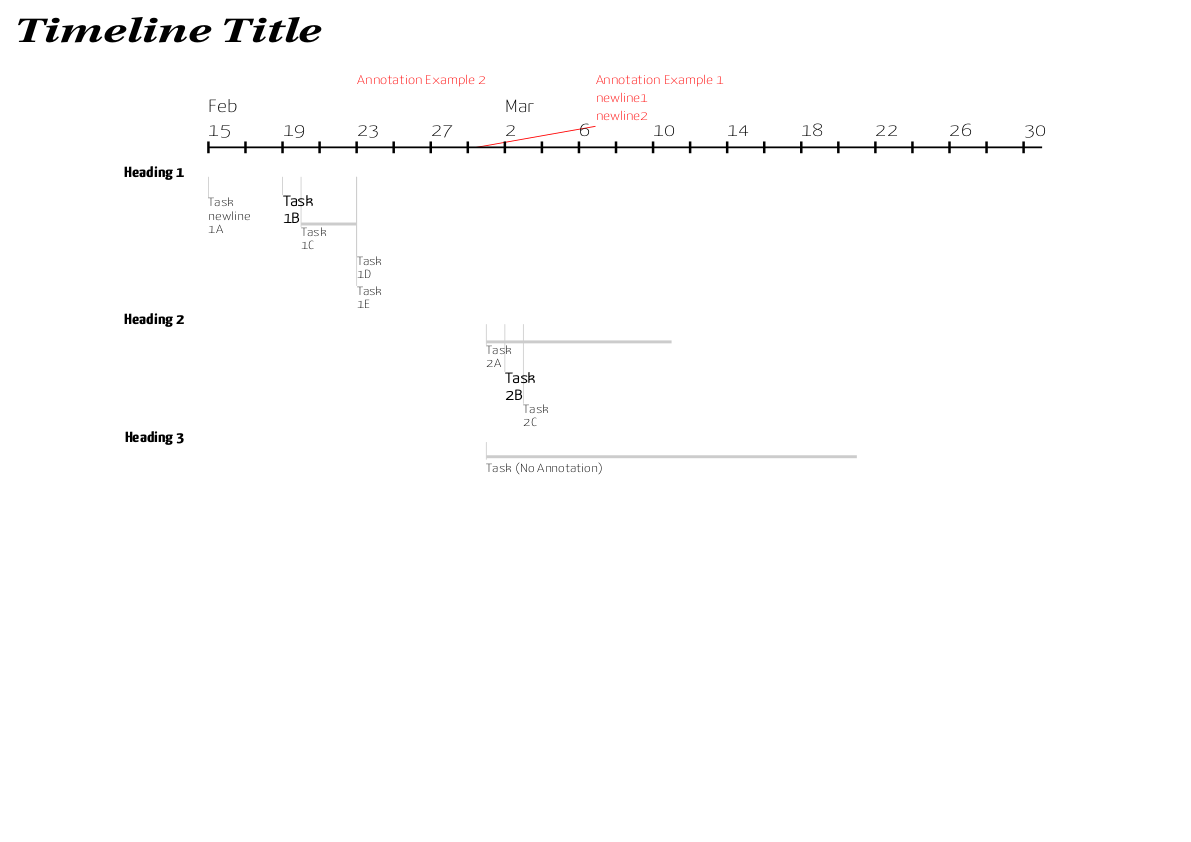
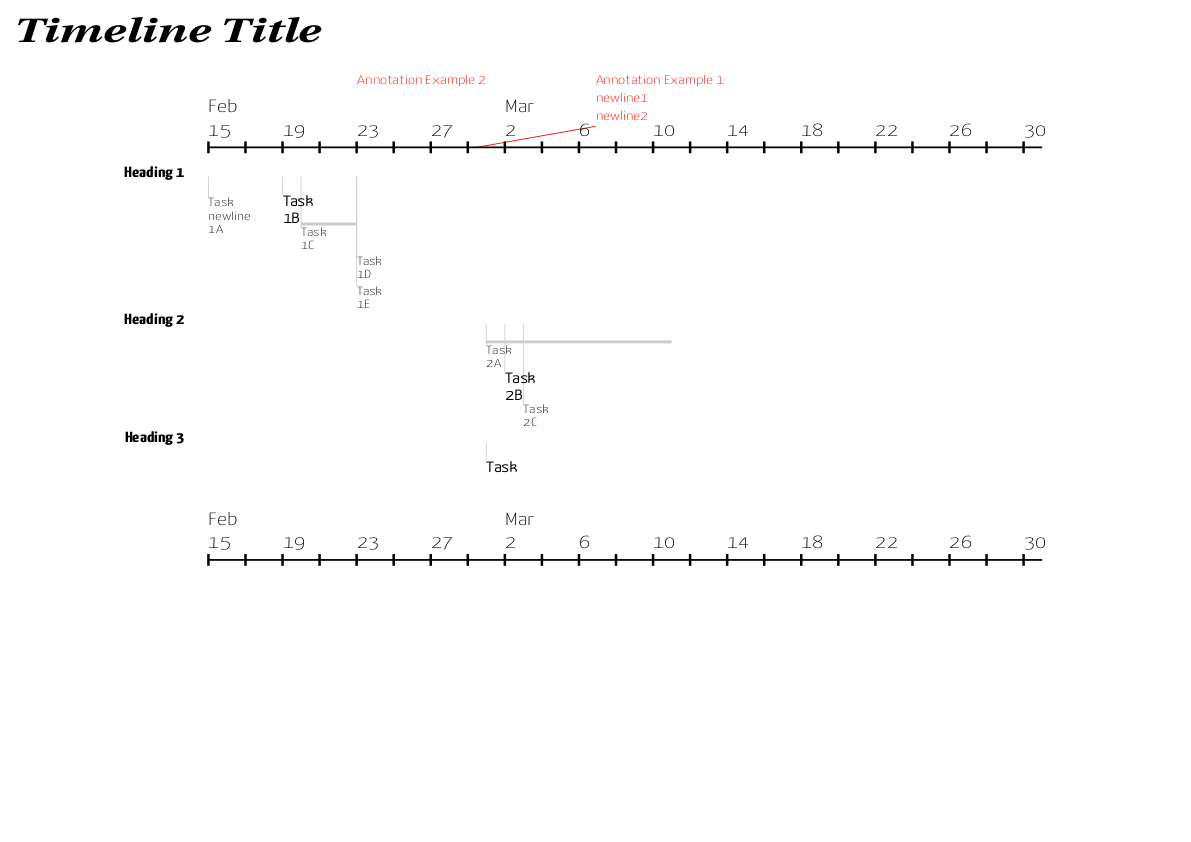
added timeline to bottom; added helper functions

Changed region(s): [[0.1864, 0.6485, 0.8699, 0.6793], [0.4039, 0.5249, 0.7145, 0.5558]]

diff --git a/timeline.py b/timeline.py
@@ -3,24 +3,6 @@ import cairo
 import calendar
 import datetime
 from dateutil.rrule import rrule, MONTHLY, DAILY
-# Examples
-TITLE = "Timeline Title"
-ANNOTATIONS = ((("Annotation Example 1\nnewline1\nnewline2", 0.5, 0.1),
-                ((0.5, 0.15, 0.4, 0.175),)),
-               (("Annotation Example 2", 0.3, 0.1), ()))
-TASKS = \
-    (("Heading 1",
-      (("Task\nnewline", "1A", (15, 2)),
-       ("Task", "1B", (19, 2), 2, True, 0.05), # duration 2 will be ignored
-       ("Task", "1C", (20, 2), 3),
-       ("Task", "1D", (23, 2)),
-       ("Task", "1E", (23, 2)))),
-     ("Heading 2",
-      (("Task", "2A", (1, 3), 10),
-       ("Task", "2B", (2, 3), 0, True),
-       ("Task", "2C", (3, 3)))),
-     ("Heading 3",
-      (("Task (No Annotation)", "", (1, 3), 20),)))
 class Annotation:
     def __init__(self, surface, annotations,
                  font="Yanone Kaffeesatz Thin", fontSize=0.015,
@@ -202,15 +184,52 @@ class Tasks:
         elif render == "text":
             self._set_task_text(text, annotation, x, y, height)
         return self.height
-def main(title, annotations, tasks, vPos0=0.05):
+def fix_month(month, milestone):
+    return lambda duration=0: \
+           lambda name, date, annotation="", vPos=None: (name, annotation,
+                                                         (date, month),
+                                                         duration, milestone,
+                                                         vPos)
+def milestone(month):
+    return fix_month(month, True)()
+def task(month):
+    return lambda name, date, duration=0, \
+                  annotation="": fix_month(month, False)(duration)(name, date,
+                                                                   annotation)
+def draw_all(title, annotations, tasks, vPos0=0.05,
+             xTranslate=0.25, yTranslate=0.25, lowerTimelinePadding=0.1):
     with Surface() as surface:
         surface = surface.add_title(surface, title)
         Annotation(surface, annotations)
-        timeline = TimeLine(surface)
+        timeline = TimeLine(surface, translation=(xTranslate, yTranslate))
         xPositions = timeline.draw(surface)
         vPos = vPos0
         for heading in tasks:
             vPos += Tasks(timeline, xPositions, heading[0],
                           vPos, vPos0)(heading[1])
+        TimeLine(surface, translation=(xTranslate,
+                                       lowerTimelinePadding
+                                       + yTranslate + vPos)).draw(surface)
+def examples():
+    m2, m3 = milestone(2), milestone(3)
+    t2, t3 = task(2), task(3)
+    title = "Timeline Title"
+    annotations = ((("Annotation Example 1\nnewline1\nnewline2", 0.5, 0.1),
+                    ((0.5, 0.15, 0.4, 0.175),)),
+                   (("Annotation Example 2", 0.3, 0.1), ()))
+    tasks = \
+        (("Heading 1", # helper functions not used for heading 1
+          (("Task\nnewline", "1A", (15, 2)),
+          ("Task", "1B", (19, 2), 11, True, 0.05), # duration 11 will be ignored
+          ("Task", "1C", (20, 2), 3),
+          ("Task", "1D", (23, 2)),
+          ("Task", "1E", (23, 2)))), # helper functions used below
+        ("Heading 2",
+         (t3("Task", 1, 10, "2A"),
+          m3("Task", 2, "2B"),
+          t3("Task", 3, 0, "2C"))),
+        ("Heading 3",
+         (m3("Task", 1),)))
+    draw_all(title, annotations, tasks)
 if __name__ == "__main__":
-    main(TITLE, ANNOTATIONS, TASKS)
+    examples()
